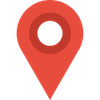
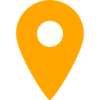
宿泊施設の値段表示,空室・満室の色分け

diff --git a/src/Map.js b/src/Map.js
@@ -3,8 +3,15 @@ import { StyleSheet, Text, View, TouchableOpacity } from 'react-native';
 import { MapView } from 'expo'
 import touristSpotMarkerImg from '../assets/678111-map-marker-512.png'
 
-var lodgingSpotData = []
-var touristSpotData = []
+let hotelsData = []
+let vacancysData = []
+let lodgingSpotData = []
+let touristSpotData = []
+
+let start1 = 1
+let start2 = 1
+
+const jalanKey = 'and16735d417c1'
 
 export default class Map extends React.Component{
   
@@ -18,36 +25,109 @@ export default class Map extends React.Component{
 
   componentDidMount(){
     this.touristSpot('https://infra-api.city.kanazawa.ishikawa.jp/facilities/search.json?lang=ja&page=1&count=50&area=1&genre=1')
-    this.lodgingSpot("http://jws.jalan.net/APIAdvance/HotelSearch/V1/?key=and16735d417c1&l_area=192000&start=1&count=100")
+    this.lodgingSpot('http://jws.jalan.net/APIAdvance/HotelSearch/V1/?key=' + jalanKey + '&s_area=192002&start='  + start1 + '&count=100&xml_ptn=2')
   }
+
   //宿泊地取得
   lodgingSpot(url){
-    var DOMParser = require("xmldom").DOMParser
-    var parser = new DOMParser()
-    var xmlhttp = new XMLHttpRequest()
+    let hotelData = []
+    const DOMParser = require("xmldom").DOMParser
+    const parser = new DOMParser()
+    const xmlhttp = new XMLHttpRequest()
+
     xmlhttp.onreadystatechange = function() {
       if(xmlhttp.readyState === 4) {
         if(xmlhttp.status === 200) {
-          var sMyString = xmlhttp._response
-          var dom = parser.parseFromString(sMyString, "text/xml")
-          var hotels = dom.getElementsByTagName("Hotel")
+          const sMyString = xmlhttp._response
+          const dom = parser.parseFromString(sMyString, "text/xml")
+          const hotels = dom.getElementsByTagName("Hotel")
+
           for (var i = 0; i < hotels.length; i++){
-            var hotelId = hotels[i].getElementsByTagName("HotelID")[0].textContent
-            var hotelName = hotels[i].getElementsByTagName("HotelName")[0].textContent
-            var jx = hotels[i].getElementsByTagName("X")[0].textContent / 1000 / 3600
-            var jy = hotels[i].getElementsByTagName("Y")[0].textContent / 1000 / 3600
-            var wx = (jx - jy * 0.000046038 - jx * 0.000083043 + 0.010040) 
-            var wy = (jy - jy * 0.00010695 + jx * 0.000017464 + 0.0046017)
-            lodgingSpotData[i] = {"HotelID":hotelId,"HotelName":hotelName,"X":wx,"Y":wy}
+            let hotelId = hotels[i].getElementsByTagName("HotelID")[0].textContent
+            let hotelName = hotels[i].getElementsByTagName("HotelName")[0].textContent
+            let planSampleRateFrom = hotels[i].getElementsByTagName("SampleRateFrom")[0].textContent
+
+            let jx = hotels[i].getElementsByTagName("X")[0].textContent / 1000 / 3600
+            let jy = hotels[i].getElementsByTagName("Y")[0].textContent / 1000 / 3600
+            let wx = (jx - jy * 0.000046038 - jx * 0.000083043 + 0.010040) 
+            let wy = (jy - jy * 0.00010695 + jx * 0.000017464 + 0.0046017)
+
+            hotelData[i] = {"HotelID":hotelId,"HotelName":hotelName,"X":wx,"Y":wy,"PlanSampleRateFrom":planSampleRateFrom,"State":"noVacancy"}
           }
-          this.setState({lodgingFacilities: lodgingSpotData})
+
+          start1 += 100
+          hotelsData = hotelsData.concat(hotelData)
+          this.lodgingSpot('http://jws.jalan.net/APIAdvance/HotelSearch/V1/?key=' + jalanKey + '&s_area=192002&start=' + start1 + '&count=100&xml_ptn=2')
+
+        }else if(xmlhttp.status === 400){
+          this.lodgingVacancySpot('http://jws.jalan.net/APIAdvance/StockSearch/V1/?key=' + jalanKey + '&s_area=192002&stay_date=20181220&start=' + start2 + '&count=100&order=2')
         }
       }
     }.bind(this)
+
     xmlhttp.open("GET",url)
     xmlhttp.responseType = "document"   
     xmlhttp.send()
   }
+
+    //宿泊地取得
+    lodgingVacancySpot(url){
+      let hotelData = []
+      const DOMParser = require("xmldom").DOMParser
+      const parser = new DOMParser()
+      const xmlhttp = new XMLHttpRequest()
+
+      xmlhttp.onreadystatechange = function() {
+        if(xmlhttp.readyState === 4) {
+          if(xmlhttp.status === 200) {
+            const sMyString = xmlhttp._response
+            const dom = parser.parseFromString(sMyString, "text/xml")
+            const hotels = dom.getElementsByTagName("Plan")
+
+            for (var i = 0; i < hotels.length; i++){
+              let hotelId = hotels[i].getElementsByTagName("HotelID")[0].textContent
+              let hotelName = hotels[i].getElementsByTagName("HotelName")[0].textContent
+              let sampleRate = hotels[i].getElementsByTagName("SampleRate")[0].textContent
+              let jx = hotels[i].getElementsByTagName("X")[0].textContent / 1000 / 3600
+              let jy = hotels[i].getElementsByTagName("Y")[0].textContent / 1000 / 3600
+              let wx = (jx - jy * 0.000046038 - jx * 0.000083043 + 0.010040) 
+              let wy = (jy - jy * 0.00010695 + jx * 0.000017464 + 0.0046017)
+
+              hotelData[i] = {"HotelID":hotelId,"HotelName":hotelName,"X":wx,"Y":wy,"PlanSampleRateFrom":sampleRate,"State":"vacancy"}
+            }           
+
+            hotelData = hotelData.filter(function(v1,i1,a1){ 
+              return (a1.findIndex(function(v2){ 
+                return (v1.HotelID===v2.HotelID) 
+              }) === i1)
+            })
+            //100件の空室データから重複したIDを削除(値段が安いのが残る)
+            vacancysData = vacancysData.concat(hotelData)
+            start2 += 100
+            this.lodgingVacancySpot('http://jws.jalan.net/APIAdvance/StockSearch/V1/?key=' + jalanKey + '&s_area=192002&stay_date=20181220&start=' + start2 + '&count=100&order=2')
+
+          }else if(xmlhttp.status === 400){
+            //全ての空室データから重複したIDを削除(値段が安いのが残る)
+            vacancysData = vacancysData.filter(function(v1,i1,a1){ 
+              return (a1.findIndex(function(v2){ 
+                return (v1.HotelID===v2.HotelID) 
+              }) === i1)
+            })
+            //空室データと宿泊施設データを結合し、重複したIDを削除(空室データが優先して残る)
+            lodgingSpotData = vacancysData.concat(hotelsData)
+            lodgingSpotData = lodgingSpotData.filter(function(v1,i1,a1){ 
+              return (a1.findIndex(function(v2){ 
+                return (v1.HotelID===v2.HotelID) 
+              }) === i1)
+            })
+            this.setState({lodgingFacilities: lodgingSpotData})
+          }
+        }
+      }.bind(this)
+      xmlhttp.open("GET",url)
+      xmlhttp.responseType = "document"   
+      xmlhttp.send()
+    }
 
   //観光地取得
   touristSpot = async(url) => { 
@@ -79,19 +159,34 @@ export default class Map extends React.Component{
           {
             //宿泊施設にピンを配置
             this.state.lodgingFacilities.map((lodgingFacilitie) => {
-              let title = "宿泊地"
               if (lodgingFacilitie["HotelID"] !== undefined) {
-                title = lodgingFacilitie["HotelName"]
+                title = lodgingFacilitie["PlanSampleRateFrom"]
               }
-              return (<MapView.Marker
-                coordinate={{
-                  latitude: lodgingFacilitie["Y"],     
-                  longitude: lodgingFacilitie["X"],
-                }}
-                title = {title}
-                key = {lodgingFacilitie["HotelID"]}
-                />)   
-              })
+              if(lodgingFacilitie["State"] === "noVacancy"){
+                console.log("0")
+                return (<MapView.Marker
+                  coordinate={{
+                    latitude: lodgingFacilitie["Y"],     
+                    longitude: lodgingFacilitie["X"],
+                  }}
+                  key = {lodgingFacilitie["HotelID"]}>
+                  <View style={styles.marker}>
+                    <Text style={styles.text}>¥{title}~</Text>
+                  </View>
+                </MapView.Marker>)   
+              }else{
+                return (<MapView.Marker
+                  coordinate={{
+                    latitude: lodgingFacilitie["Y"],     
+                    longitude: lodgingFacilitie["X"],
+                  }}
+                  key = {lodgingFacilitie["HotelID"]}>
+                  <View style={styles.marker1}>
+                    <Text style={styles.text}>¥{title}~</Text>
+                  </View>
+                </MapView.Marker>) 
+              }
+            })
           }
           {
             // 観光施設にピンを配置
@@ -105,12 +200,13 @@ export default class Map extends React.Component{
                   latitude: touristFacilitie.coordinates.latitude,     
                   longitude: touristFacilitie.coordinates.longitude,
                 }}
+                
                 title = {title}
                 key = {touristFacilitie["id"]}
                 image = {touristSpotMarkerImg}
-                />)   
+                />)
               })
-           }
+            }
         </MapView>
       </View> 
     )
@@ -127,5 +223,20 @@ const styles = StyleSheet.create({
 
   mapview: {
     ...StyleSheet.absoluteFillObject,
+  },
+
+  marker: {
+    backgroundColor: 'red',
+    padding: 5,
+    borderRadius: 10,
+  },
+  marker1: {
+    backgroundColor: 'blue',
+    padding: 5,
+    borderRadius: 10,
+  },
+  text: {
+    color: "#FFF",
+    fontWeight: 'bold',
   },
 });
